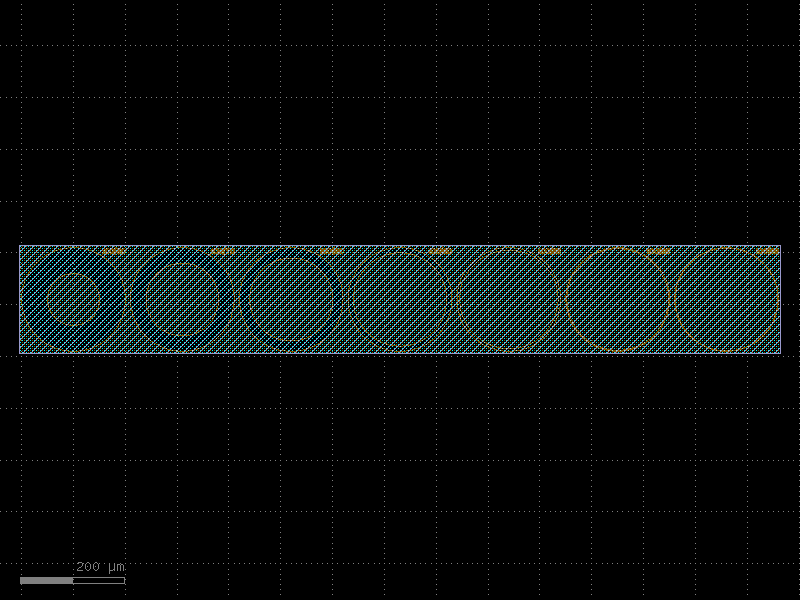
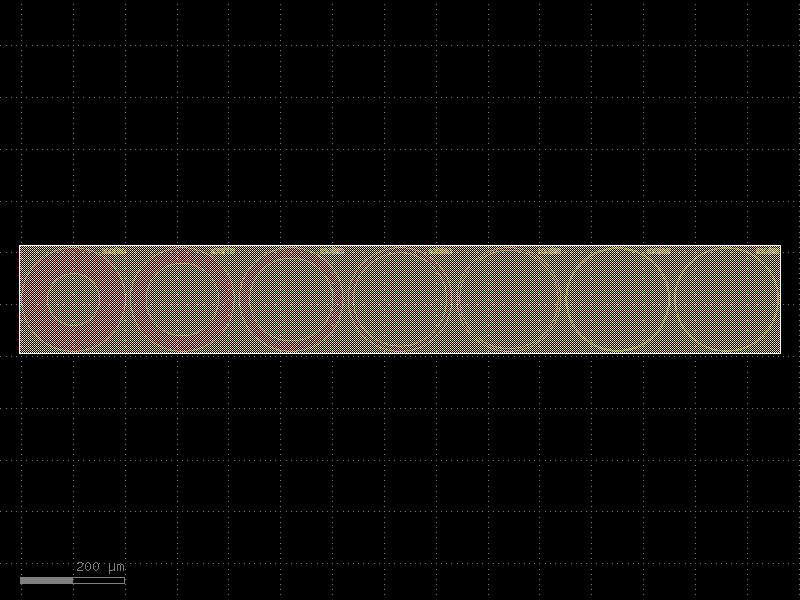
change default layer so API image looks better

Changed region(s): [[0.0, 0.39, 1.0, 0.6]]

diff --git a/src/qnngds/test_structures.py b/src/qnngds/test_structures.py
@@ -434,7 +434,7 @@ def circ_tlm(
     ext_radius: float = 100,
     int_radius: List[float] = [50, 70, 80, 90, 95, 98, 99],
     pad_layer: LayerSpec = (3, 0),
-    mesa_layers: LayerSpecs = [(4, 0), (2, 0)],
+    mesa_layers: LayerSpecs = [(1, 0), (2, 0)],
 ) -> gf.Component:
     """Creates rectangular transfer-length-method test structures.
 
